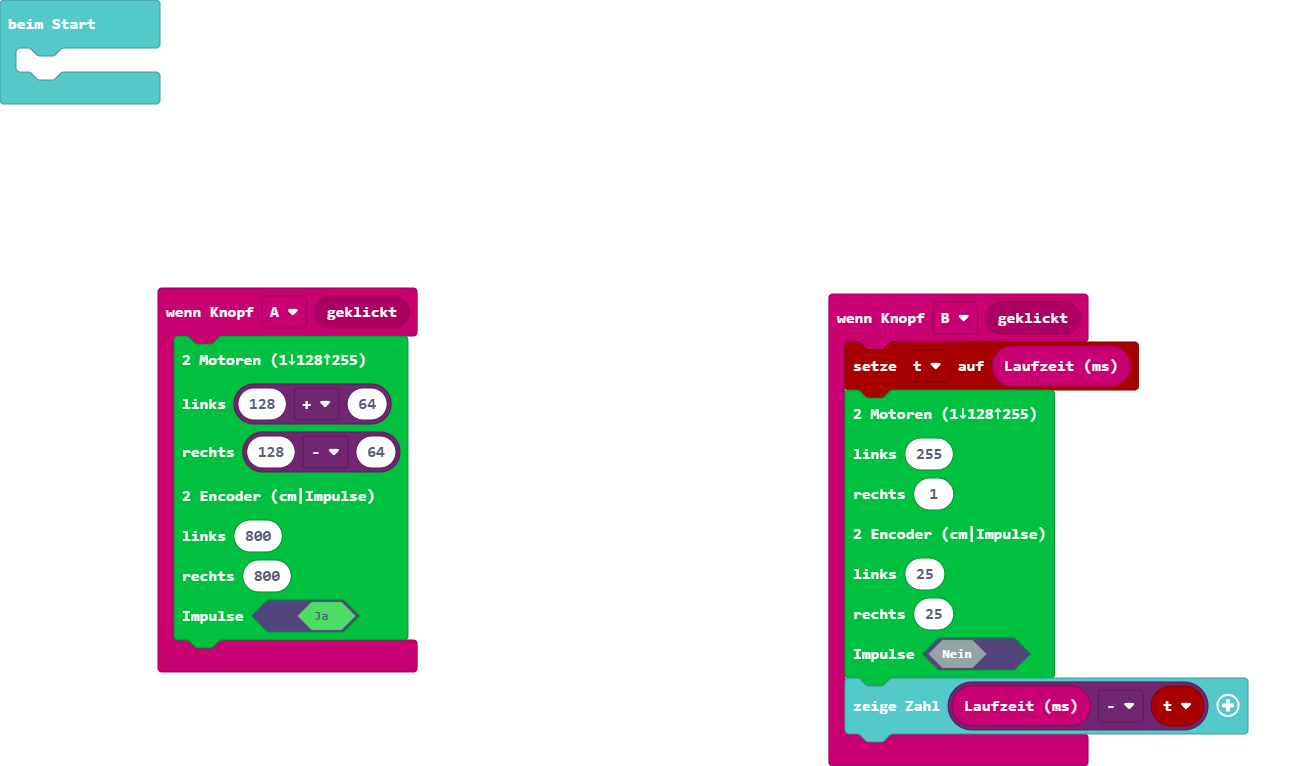
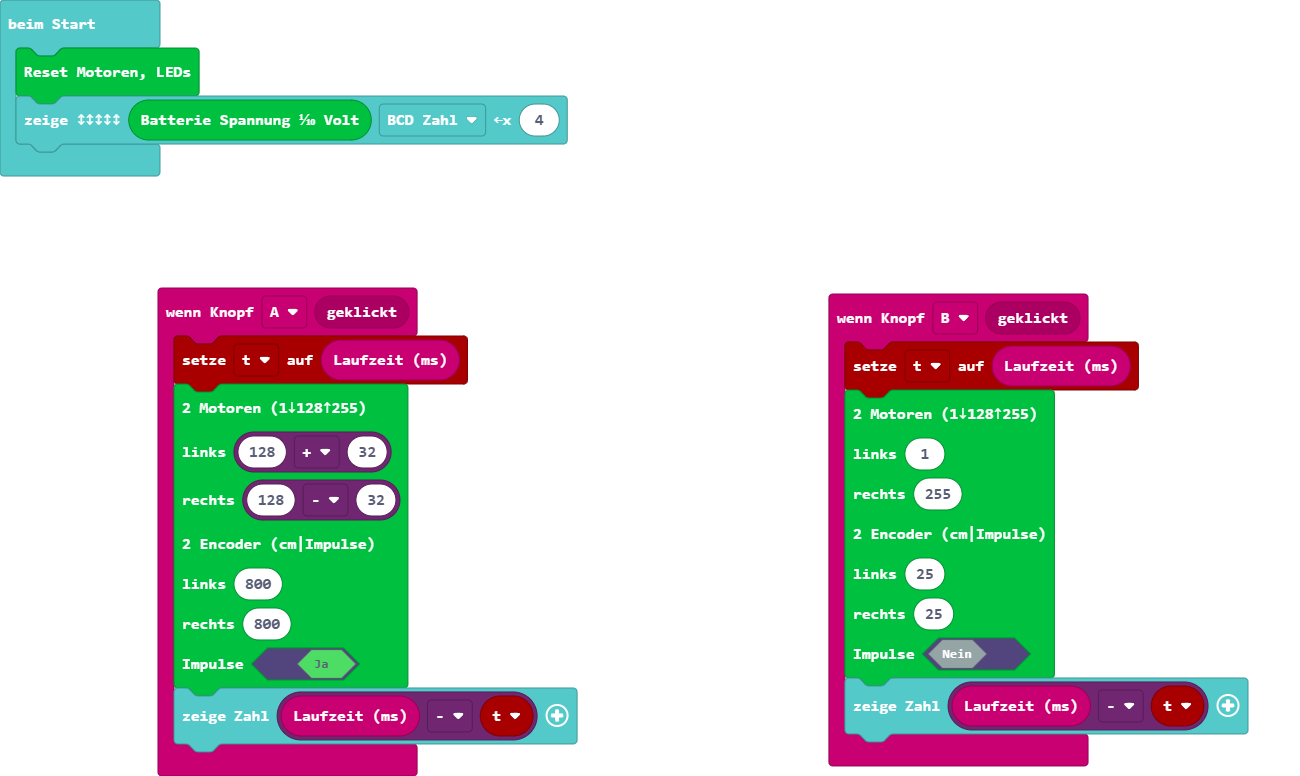
Aktualisiere pxt.json, main.blocks, main.ts, c-fernsteuerung.ts

Changed region(s): [[0.1231, 0.3603, 0.4615, 1.0], [0.6154, 0.3603, 0.9846, 1.0], [0.0, 0.0601, 0.4615, 0.2402]]

diff --git a/c-fernsteuerung.ts b/c-fernsteuerung.ts
@@ -120,23 +120,36 @@ namespace cb2 { // c-fernsteuerung.ts
 
             let encoderImpulseA = impulse ? encoderA : encoderA * n_EncoderFaktor
             let encoderImpulseB = impulse ? encoderB : encoderB * n_EncoderFaktor
-          //  let pause = Math.map(0, 0, 0, 0, 0)
-            let timeout_Encoder = 200 // * pause 100 (unten) = 20 s Timeout, wenn Encoder nicht zählt
+            //  let pause = Math.map(0, 0, 0, 0, 0)
+            let timeoutEncoder = 500 // 500 * pause 2 (unten) = 1 s Timeout, wenn Encoder nicht zählt
+            // 200 * pause 100 (unten) = 20 s Timeout, wenn Encoder nicht zählt
 
+            let letzteEncoderWerte: number[] = [0, 0]
             let aEncoderWerte: number[]
 
             writeMotoren128(motorA, motorB) // Start
 
             while (motorA != c_MotorStop || motorB != c_MotorStop) {
-                /* if (timeout_Encoder-- <= 0) {
-                    writeMotorenStop()
-                    writeRgbLeds(Colors.Red, true)
-                    basic.pause(1000)
-                    writeRgbLeds(Colors.Red, false) // aus nach 1 Sekunde
-                    break
-                } */
 
                 aEncoderWerte = readEncoderValues() // rückwärts sind die Werte negativ
+
+                if (timeoutEncoder-- <= 0) { // alle 1s
+
+                    if (letzteEncoderWerte[0] == aEncoderWerte[0] && letzteEncoderWerte[1] == aEncoderWerte[1]) {
+                        // in 500 * pause 2 (unten) = 1 s Timeout hat sich kein Wert geändert
+                        writeMotorenStop()
+                        writeRgbLeds(Colors.Red, true)
+                       // basic.pause(1000)
+                      //  writeRgbLeds(Colors.Red, false) // aus nach 1 Sekunde
+                        break
+                    }
+                    else { // mindestens ein Wert geändert
+                        letzteEncoderWerte[0] = aEncoderWerte[0]
+                        letzteEncoderWerte[1] = aEncoderWerte[1]
+                        timeoutEncoder = 500 // 500 * pause 2 (unten) = 1 s Timeout, wenn Encoder nicht zählt
+                    }
+                }
+
 
                 if (motorA != c_MotorStop && Math.abs(aEncoderWerte[0]) > encoderImpulseA) {
                     motorA = c_MotorStop
@@ -151,7 +164,7 @@ namespace cb2 { // c-fernsteuerung.ts
                 // oder langsamer fahren wenn Rest strecke kleiner wird
                 // l=255 r=1: 800 Impulse (25*32) 1.4s = 1.75ms pro Impuls
 
-                basic.pause(2) // 2 ms müsste jeden Impuls erfassen
+             //   basic.pause(2) // 2 ms müsste jeden Impuls erfassen
 
             } // while
             writeMotorenStop()

diff --git a/main.ts b/main.ts
@@ -1,21 +1,25 @@
-let t = 0
 input.onButtonEvent(Button.A, input.buttonEventClick(), function () {
+    t = input.runningTime()
     cb2.fahre2MotorenEncoder(
-    128 + 64,
-    128 - 64,
+    128 + 32,
+    128 - 32,
     800,
     800,
     true
     )
+    basic.showNumber(input.runningTime() - t)
 })
 input.onButtonEvent(Button.B, input.buttonEventClick(), function () {
     t = input.runningTime()
     cb2.fahre2MotorenEncoder(
-    255,
     1,
+    255,
     25,
     25,
     false
     )
     basic.showNumber(input.runningTime() - t)
 })
+let t = 0
+cb2.writeReset()
+btf.zeigeBIN(cb2.readSpannung(), btf.ePlot.bcd, 4)
